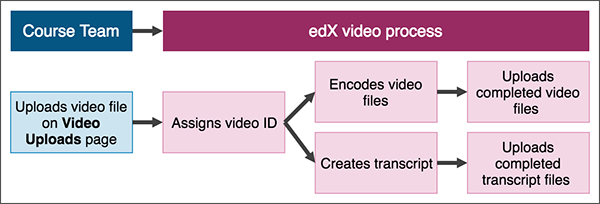
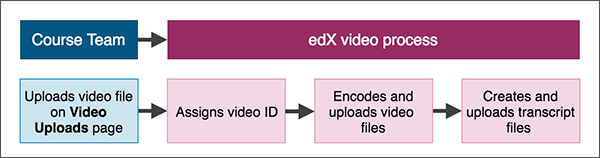
Updates per engineering feedback

diff --git a/en_us/course_authors/source/video/upload_video.rst b/en_us/course_authors/source/video/upload_video.rst
@@ -51,27 +51,24 @@ If the course has integrated video transcripts through 3Play Media or cielo24,
 the process has the following steps.
 
 .. note::
-  If a step does not complete successfully, the process automatically tries
-  again multiple times.
+  If a step in the process does not complete successfully, the process
+  automatically tries again multiple times. If the process does not complete
+  successfully after multiple tries, an :ref:`error status <Video Processing
+  Statuses>` appears in the list of videos on the **Video Uploads** page.
 
 .. image:: ../../../shared/images/VidProc-IT.png
  :width: 600
  :alt: The video process for courses with integrated video transcripts, as
      detailed in the following numbered list.
 
-########################################
-########################################
-New VidProc-IT.html diagram - need to convert to .png and format, etc.
-########################################
-########################################
-
 #. The course team uploads the video file on the **Video Uploads** page.
 #. The process assigns a unique video ID to the video. This video ID represents
    all of the files, hosting locations, and transcripts that the automated
    process creates.
-#. The process encodes video files in different formats.
-#. The process creates transcripts for the video.
-#. The process uploads the video files and transcripts to the hosting service.
+#. The process encodes video files in different formats, and then uploads the
+   video files to the hosting service.
+#. The process creates transcripts for the video, and then uploads the
+   transcripts to the hosting service.
 
 .. important::
   As soon as the automated video process has assigned a video ID to the video,
@@ -87,6 +84,12 @@ Automated Video Process for Non-Integrated Transcripts
 
 If the course uses a transcript provider that does not offer integrated
 transcripts, the video processing service completes the following steps.
+
+.. note::
+  If a step in the process does not complete successfully, the process
+  automatically tries again multiple times. If the process does not complete
+  successfully after multiple tries, an :ref:`error status <Video Processing
+  Statuses>` appears in the list of videos on the **Video Uploads** page.
 
 .. image:: ../../../shared/images/VidProc-NoIT.png
  :width: 600
@@ -106,9 +109,6 @@ transcripts, the video processing service completes the following steps.
   you can add the video to the course. However, the video is not visible in the
   course until the automated process is complete. The process can take up to 24
   hours.
-
-If a step does not complete successfully, the process automatically tries again
-multiple times.
 
 ====================================
 Upload a Video for an edx.org Course
@@ -179,41 +179,77 @@ Video Processing Statuses
 
 The encoding and hosting process assigns the following statuses to video files.
 
-* **Failed** files did not complete processing successfully. Verify that you
-  can play your original .mp4 or .mov file and that it meets the other
-  specifications for successful video processing. Then upload the file, or a
-  replacement file, again. If processing fails more than once for a file,
-  contact edX partner support at ``partner-support@edx.org``.
+.. list-table::
+  :widths: 25 75
+  :header-rows: 1
 
-  For more information, see :ref:`Compression Specifications`.
+  * - **Failed**
+    - Files did not complete processing successfully. If this status appears,
+      follow these steps.
 
-* **Failed Duplicate** is the status for files that failed to upload because
-  the system identified the files as duplicates.
+      #. Verify that you can play your original .mp4 or .mov file and that the
+         file meets all :ref:`specifications <Video Guidelines>` for successful
+         video processing.
+      #. Remove the video file from the **Video Uploads** page by selecting the
+         "Remove this video" icon for the video.
+      #. Upload the original file again, or upload a replacement file.
 
-* **In Progress** files are undergoing processing to create additional file
-  formats or waiting for successful transfer to the host sites.
+      If processing fails more than one time for a file, contact edX partner support at ``partner-support@edx.org``.
 
-* **Invalid Token** indicates a configuration problem. If this status appears,
-  contact edX partner support at ``partner-support@edx.org``.
+  * - **Failed Duplicate**
+    - Files failed to upload because the system identified the files as
+      duplicates.
+  * - **In Progress**
+    - Files are undergoing processing to create additional file formats or
+      waiting for successful transfer to the host sites.
+  * - **Invalid Token** indicates a
+    - A configuration problem has occurred. If this status appears, contact edX
+      partner support at ``partner-support@edx.org``.
+  * - **Ready**
+    - Files are ready to add to your course and for learners to view. When you
+      click the names of these files, a file on one of the external host sites
+      plays. Processing continues at video hosting sites for 24 hours after you
+      upload a file.
 
-* **Ready** files are ready for inclusion in your course and for learners to
-  view.  When you click the names of these files, a file hosted on one of the
-  external host sites plays. Processing continues at video hosting sites for 24
-  hours after you upload a file.
+      For more information, see :ref:`Add a Video to a Course`.
 
-  For more information, see :ref:`Add a Video to a Course`.
+  * - **Transcription in Progress**
+    - The encoding process has completed, and video transcripts are being
+      created.
 
-* **Unknown** indicates a configuration problem. If this status appears,
-  contact edX partner support at ``partner-support@edx.org``.
+      If a video has this status for more than 48 hours, follow these steps.
 
-* **Uploaded** files have successfully completed uploading to the edX servers.
+      #. Verify that the file that you uploaded is in .mp4 or .mov format and
+         that the file meets all :ref:`specifications <Video Guidelines>` for
+         successful video processing.
+      #. Remove the video file from the **Video Uploads** page by selecting the
+         "Remove this video" icon for the video.
+      #. Upload the original file again, or upload a replacement file.
 
-* **Uploading** files have not yet reached the edX servers successfully. For
-  files that encounter a problem, verify that the file that you uploaded is in
-  .mp4 or .mov format and meets the other specifications for successful video
-  processing. Then try uploading the file (or its replacement) again.
+      If this problem occurs more than one time for a file, contact edX partner
+      support at ``partner-support@edx.org``.
 
-  For more information, see :ref:`Video Guidelines`.
+  * - **Transcript Ready**
+    - The transcript creation process has completed.
+  * - **Unknown**
+    - A configuration problem has occurred. If this status appears, contact edX
+      partner support at ``partner-support@edx.org``.
+  * - **Uploaded**
+    - The file has successfully completed uploading to the edX servers.
+  * - **Uploading**
+    - The file has not yet reached the edX servers. If a video has this status
+      for more than 48 hours, follow these steps.
+
+      #. Verify that the file that you uploaded is in .mp4 or .mov format and
+         that the file meets all :ref:`specifications <Video Guidelines>` for
+         successful video processing.
+      #. Remove the video file from the **Video Uploads** page by selecting the
+         "Remove this video" icon for the video.
+      #. Upload the original file again, or upload a replacement file.
+
+      If this problem occurs more than one time for a file, contact edX partner
+      support at ``partner-support@edx.org``.
+
 
 
 .. _Reporting Video Status:

diff --git a/en_us/shared/video/prepare_video.rst b/en_us/shared/video/prepare_video.rst
@@ -131,6 +131,14 @@ organizations define a naming convention for video files, and use that
 convention in videos for all courses to facilitate identifying and tracking
 video files.
 
+When you name your video files, keep the following guidelines in mind.
+
+* Include only alphanumeric characters and underscores in video file names.
+* Make sure that the video file name contains no special characters, such as ç,
+  å, or ó.
+* Do not use periods except for the period before the file name extension (for
+  example, .mp4).
+
 At a minimum, your naming convention should include these elements.
 
 * A course identifier.
@@ -148,12 +156,6 @@ This convention might yield the following file name.
 ::
 
   SPU27_2015_S1_SS3_U4_v2.mp4
-
-.. note::
-  Include only alphanumeric characters and underscores in video file names. Do
-  not use periods except for the period before the file name extension (for
-  example, .mp4).
-
 
 .. _Video Compression Specifications:
 
@@ -288,11 +290,12 @@ Obtaining a Video Transcript
       organization's administrator.
 
      * If your organization uses 3Play Media, select **3Play Media** under
-       **Automated Transcripts**, and then enter your API key and secret key.
-       When you have entered this information, select **Update Settings**.
+       **Automated Transcripts**, enter your API key and secret key, and then
+       select **Update Settings**.
 
      * If your organization uses cielo24, select **cielo24** under **Automated
-       Transcripts**, enter your API key, and then select **Update Settings**.
+       Transcripts**, enter your username and API key, and then select **Update
+       Settings**.
 
   .. _Non Integrated Transcripts:
 
